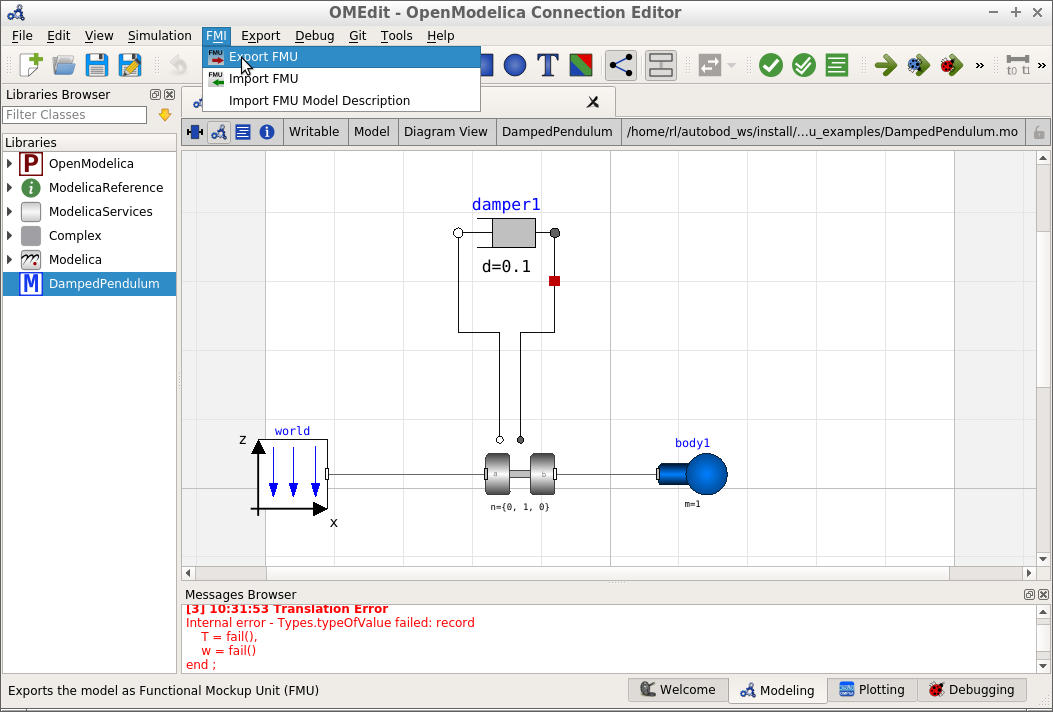
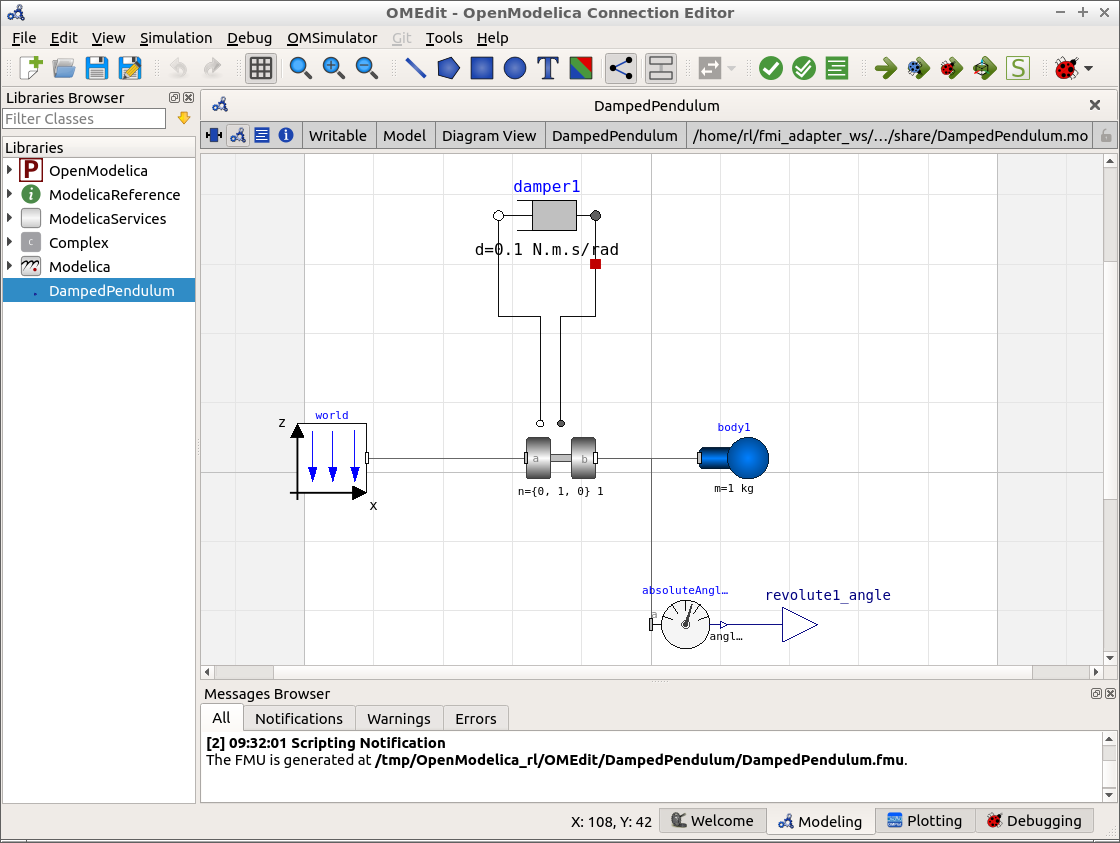
Imported upstream version '1.0.3' of 'upstream'

diff --git a/fmi_adapter/src/fmi_adapter/FMIAdapter.cpp b/fmi_adapter/src/fmi_adapter/FMIAdapter.cpp
@@ -170,7 +170,7 @@ FMIAdapter::FMIAdapter(const std::string& fmuPath, ros::Duration stepSize, bool 
   }
 
   const fmi2_string_t instanceName = fmi2_import_get_model_name(fmu_);
-  const fmi2_string_t fmuLocation = "";
+  const fmi2_string_t fmuLocation = nullptr;  // Indicates that FMU should get path to the unzipped location.
   const fmi2_boolean_t visible = fmi2_false;
   const fmi2_real_t relativeTol = 1e-4;
   jmStatus = fmi2_import_instantiate(fmu_, instanceName, fmi2_cosimulation, fmuLocation, visible);
@@ -380,7 +380,7 @@ ros::Time FMIAdapter::doStepsUntil(const ros::Time& simulationTime) {
   }
 
   fmi2_real_t targetFMUTime = (simulationTime - fmuTimeOffset_).toSec();
-  if (targetFMUTime < fmuTime_) {
+  if (targetFMUTime < fmuTime_ - stepSize_.toSec() / 2.0) {  // Subtract stepSize/2 for rounding.
     ROS_ERROR("Given time %f is before current simulation time %f!", targetFMUTime, fmuTime_);
     throw std::invalid_argument("Given time is before current simulation time!");
   }

diff --git a/README.md b/README.md
@@ -1,5 +1,7 @@
 # The fmi_adapter repository
 
+[![Build Status](http://build.ros.org/job/Mdev__fmi_adapter__ubuntu_bionic_amd64/badge/icon)](http://build.ros.org/job/Mdev__fmi_adapter__ubuntu_bionic_amd64/)
+
 This repository provides the fmi_adapter package for wrapping *functional mockup units (FMUs)* for co-simulation of physical models into ROS nodes. FMUs are defined in the [FMI standard](http://fmi-standard.org/) and can be created with a variety of modeling and simulation tools, including [Dymola](http://www.3ds.com/products-services/catia/products/dymola), [MATLAB/Simulink](https://www.mathworks.com/products/simulink.html), [OpenModelica](https://www.openmodelica.org/), [SimulationX](https://www.simulationx.de/), and [Wolfram System Modeler](http://www.wolfram.com/system-modeler/).
 
 fmi_adapter provides a library with convenience functions based on common ROS types to load an FMU during runtime, retrieve the input, output, and parameter names, set timestamped input values, run the FMU's numeric solver, and query the resulting output.
@@ -19,7 +21,7 @@ The software is not ready for production use. It has neither been developed nor 
 
 ## Requirements, how to build, test, install, use, etc.
 
-Clone the repository into a ROS workspace and build it using [catkin](http://wiki.ros.org/catkin).
+Clone the repository into a ROS workspace and build it using `catkin build` from the [Catkin Command Line Tools](https://catkin-tools.readthedocs.io/). For correct installation of the FMUs in the examples package, use a dedicated install space by calling `catkin config --install` first.
 
 
 ## License
@@ -39,7 +41,7 @@ For a list of other open source components included in fmi_adapter, see the file
     *   The CMakeLists.txt and package description files are checked with [catkin_lint](http://wiki.ros.org/catkin_lint).
 *   Unit tests:
     *   Unit tests based on [rostest](http://wiki.ros.org/rostest)+[gtest](https://github.com/google/googletest) are located in the [fmi_adapter/test](fmi_adapter/test) folder.
-    *   The unit tests use an FMU created with the [FMU SDK](https://www.qtronic.de/en/fmusdk.html) by QTronic GmbH, cf. [3rd-party-licenses.txt](3rd-party-licenses.txt).
+    *   The unit tests use an FMU created with the [FMU SDK](https://www.qtronic.de/en/fmu-sdk/) by QTronic GmbH, cf. [3rd-party-licenses.txt](3rd-party-licenses.txt).
 
 The [pre-commit.hook](pre-commit.hook) file provides a client-side commit hook to check the conformance with the coding style and the linters during every commit. In case of a finding by clang-format or one of the linters, the commit will be rejected. To set this client-side commit hook up, please run `ln -s ../../pre-commit.hook .git/hooks/pre-commit` from the local repository root.
 

diff --git a/fmi_adapter_examples/README.md b/fmi_adapter_examples/README.md
@@ -3,7 +3,7 @@ General information about this repository, including legal information, build in
 
 # The fmi_adapter_examples package
 
-This [ROS](http://www.ros.org/) package provides few examples for the use of the fmi_adapter package. It contains two FMU files DampedPendulum.fmu and TransportDelay.fmu (both created with the [FMU SDK](https://www.qtronic.de/en/fmusdk.html)) and corresponding launch files. Furthermore, it includes a model of a damped pendulum in the [Modelica language](https://www.modelica.org/) to create your own FMU.
+This [ROS](http://www.ros.org/) package provides few examples for the use of the fmi_adapter package. It contains two FMU files DampedPendulum.fmu and TransportDelay.fmu (both created with the [FMU SDK](https://www.qtronic.de/en/fmu-sdk/)) and corresponding launch files. Furthermore, it includes a model of a damped pendulum in the [Modelica language](https://www.modelica.org/) to create your own FMU.
 
 
 ## Running the provided sample FMUs
@@ -27,18 +27,18 @@ In the following, we explain the process by the example of OpenModelica, which h
 *   Launch `OMEdit` and load the [share/DampedPendulum.mo](share/DampedPendulum.mo) model file.
 *   Click on the DampedPendulum model in the project tree on the left.
 
-![Screenshot of the DampedPendulum model in OMEdit V1.12.0](doc/damped_pendulum_in_OMEdit.png)
+![Screenshot of the DampedPendulum model in OMEdit V1.14.1](doc/damped_pendulum_in_OMEdit.png)
 
 *   Navigate to Tools -> Options -> FMI and ensure that `Version=2.0`, `Type=Co-Simulation` and `Platforms=Dynamic` is selected.
-*   Then click FMI -> Export FMU.
-*   The path of the resulting FMU file is shown in the message browser at the bottom of the window, typically `/tmp/OpenModelica_[user]/OMEdit/DampedPendulum.fmu`.
+*   Then click File -> Export -> FMU.
+*   The path of the resulting FMU file is shown in the message browser at the bottom of the window, typically `/tmp/OpenModelica_[user]/OMEdit/DampedPendulum/DampedPendulum.fmu`.
 
 Now, you are prepared for simulating the FMU using the fmi_adapter package.
 
 *   Either use the generic launch file of the package
-    `roslaunch fmi_adapter fmi_adapter_node.launch fmu_path:=/tmp/OpenModelica_[user]/OMEdit/DampedPendulum.fmu`
+    `roslaunch fmi_adapter fmi_adapter_node.launch fmu_path:=/tmp/OpenModelica_[user]/OMEdit/DampedPendulum/DampedPendulum.fmu`
     or invoke the package's node directly by
-    `rosrun fmi_adapter node _fmu_path:=/tmp/OpenModelica_[user]/OMEdit/DampedPendulum.fmu`
+    `rosrun fmi_adapter node _fmu_path:=/tmp/OpenModelica_[user]/OMEdit/DampedPendulum/DampedPendulum.fmu`
 
 *   You may visualize the pendulum's angle over time by
     `rqt_plot /fmi_adapter_node/revolute1_angle`

diff --git a/fmi_adapter/CHANGELOG.rst b/fmi_adapter/CHANGELOG.rst
@@ -2,6 +2,12 @@
 Changelog for package fmi_adapter
 ^^^^^^^^^^^^^^^^^^^^^^^^^^^^^^^^^
 
+1.0.3 (2020-01-30)
+------------------
+* Fixed sporadic exception in case of small external steps.
+* Updated to FMILibrary version 2.1 and to new location of FMILibrary sources.
+* Fixed fmuLocation argument for fmi2_import_instantiate.
+
 1.0.2 (2018-10-12)
 ------------------
 * Added parameter to configure update period of fmi_adapter node.

diff --git a/fmi_adapter_examples/CHANGELOG.rst b/fmi_adapter_examples/CHANGELOG.rst
@@ -2,6 +2,11 @@
 Changelog for package fmi_adapter_examples
 ^^^^^^^^^^^^^^^^^^^^^^^^^^^^^^^^^^^^^^^^^^
 
+1.0.3 (2020-01-30)
+------------------
+* Updated instructions for FMU export from OpenModelica.
+* Created explicit output revolute1_angle.
+
 1.0.2 (2018-10-12)
 ------------------
 * Added two sample FMUs with corresponding launch files.
